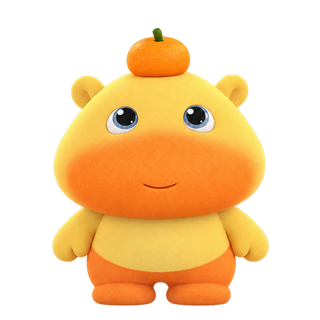
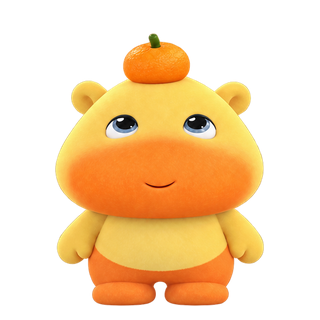
Refine Lulu loaf and looking-up animations and unify state menu

diff --git a/variants/desktop_pet_lulu/test_lulu.py b/variants/desktop_pet_lulu/test_lulu.py
@@ -276,6 +276,16 @@ class LuluTests(unittest.TestCase):
             for box in [(20, 110, 55, 310), (275, 110, 300, 310)]:
                 self.assertEqual(frame.crop(box).tobytes(), frames[0].crop(box).tobytes())
 
+    def test_looking_up_feet_stay_planted(self):
+        frames = [Image.open(p).convert('RGBA') for p in sorted(
+            (ROOT/'assets/blue_chibi/looking_up').glob('frame_*.png'))]
+        centers = []
+        for frame in frames:
+            box = frame.getchannel('A').crop((0, 285, 320, 307)).getbbox()
+            self.assertIsNotNone(box)
+            centers.append((box[0] + box[2]) / 2)
+        self.assertLessEqual(max(centers) - min(centers), 1)
+
     def test_typing_and_dragging_cancel_reference_actions(self):
         machine = self.pet.state_machine
         for state in REFERENCE_ACTIONS:
@@ -292,10 +302,11 @@ class LuluTests(unittest.TestCase):
                     machine.release_state(interrupt)
                     self.assertEqual(machine.current_state, PetState.IDLE)
 
-    def test_reference_menus_offer_and_trigger_all_six_actions(self):
+    def test_reference_actions_share_the_state_menu(self):
         def check_menu(parent):
-            menu = next(a.menu() for a in parent.actions() if a.text() == '参考图动作')
-            actions = menu.actions()
+            self.assertNotIn('参考图动作', {a.text() for a in parent.actions()})
+            menu = next(a.menu() for a in parent.actions() if a.text() == '切换状态')
+            actions = [a for a in menu.actions() if a.data() in REFERENCE_ACTIONS]
             self.assertEqual({a.data() for a in actions}, set(REFERENCE_ACTIONS))
             for action in actions:
                 action.trigger()

diff --git a/variants/desktop_pet_lulu/build_reference_actions.py b/variants/desktop_pet_lulu/build_reference_actions.py
@@ -17,6 +17,28 @@ from enhance_ui_assets import resize_square_frame
 ROOT = Path(__file__).resolve().parent
 
 
+def anchor_looking_up_feet(frames):
+    """Keep the planted lower body fixed while eyes, head and paws explore."""
+    centers = []
+    for frame in frames:
+        feet = frame.getchannel("A").crop((0, 285, 320, 307))
+        box = feet.getbbox()
+        if not box:
+            raise ValueError("Missing planted feet in looking-up frame")
+        centers.append((box[0] + box[2]) / 2)
+    target = median(centers)
+    result = []
+    for frame, center in zip(frames, centers):
+        dx = round(target - center)
+        left, _, right, _ = frame.getchannel("A").getbbox()
+        if left + dx <= 0 or right + dx >= frame.width:
+            raise ValueError("Foot alignment would crop the character")
+        aligned = Image.new("RGBA", frame.size, (0, 0, 0, 0))
+        aligned.alpha_composite(frame, (dx, 0))
+        result.append(aligned)
+    return result
+
+
 def register_pullup_bar(frames):
     """Reuse the generated bar layer so AI sheet registration cannot move it.
 
@@ -103,8 +125,10 @@ def build_action(state):
         # grounded while the character moves inside it as the elbows bend.
         frame.alpha_composite(sprite, ((320-sprite.width)//2, 306-sprite.height))
         frames.append(frame)
-    if state in {"shy", "laughing", "looking_up"}:
+    if state in {"shy", "laughing"}:
         frames = align_walking_heads(frames)
+    elif state == "looking_up":
+        frames = anchor_looking_up_feet(frames)
     elif state == "pullups":
         frames = register_pullup_bar(frames)
     low = ROOT / "assets" / "blue_chibi" / state

diff --git a/variants/desktop_pet_lulu/pet_window.py b/variants/desktop_pet_lulu/pet_window.py
@@ -308,7 +308,7 @@ class PetWindow(QWidget):
         state_menu.addAction(selfie_action)
         selfie_action.setVisible(SELFIE_ENABLED)
 
-        self._add_reference_action_menu(tray_menu)
+        self._add_reference_state_actions(state_menu)
 
         tray_menu.addSeparator()
 
@@ -320,15 +320,14 @@ class PetWindow(QWidget):
         self.tray_icon.setToolTip("噜噜 · DesktopPetLulu")
         self.tray_icon.show()
 
-    def _add_reference_action_menu(self, parent_menu):
-        menu = parent_menu.addMenu("参考图动作")
+    def _add_reference_state_actions(self, state_menu):
+        state_menu.addSeparator()
         for state, spec in REFERENCE_ACTIONS.items():
-            action = menu.addAction(spec["label"])
+            action = state_menu.addAction(spec["label"])
             action.setData(state)
             action.triggered.connect(
                 lambda checked=False, selected=state: self.state_machine.request_state(selected, True)
             )
-        return menu
 
     def _on_state_changed(self, state):
         """状态改变回调"""
@@ -953,7 +952,7 @@ class PetWindow(QWidget):
         state_menu.addAction(selfie_action)
         selfie_action.setVisible(SELFIE_ENABLED)
 
-        self._add_reference_action_menu(menu)
+        self._add_reference_state_actions(state_menu)
 
         menu.addSeparator()
 

diff --git a/variants/desktop_pet_lulu/config.py b/variants/desktop_pet_lulu/config.py
@@ -71,7 +71,7 @@ REFERENCE_ACTIONS = {
                         "frame_ms": 200, "sequence": (0, 1, 2, 3, 1, 0)},
     PetState.PULLUPS: {"label": "单杠锻炼", "reference": 3, "duration_ms": 4800,
                       "frame_ms": 300, "sequence": (0, 1, 2, 2, 3, 1, 0, 0)},
-    PetState.LOAF: {"label": "软团趴趴", "reference": 4, "duration_ms": 4800,
+    PetState.LOAF: {"label": "软软趴趴", "reference": 4, "duration_ms": 4800,
                    "frame_ms": 400, "sequence": (0, 0, 1, 2, 1, 3, 0, 0)},
     PetState.LOOKING_UP: {"label": "抬头张望", "reference": 5, "duration_ms": 4000,
                          "frame_ms": 400, "sequence": (0, 1, 1, 2, 2, 3, 0)},

diff --git a/variants/desktop_pet_lulu/art/reference_actions/REFINEMENT_1_1_1.md b/variants/desktop_pet_lulu/art/reference_actions/REFINEMENT_1_1_1.md
@@ -1,0 +1,25 @@
+# Lulu 1.1.1 action refinement prompts
+
+Tool: built-in image_gen. The edit targets were the 1.1.0 generated `loaf_sheet.png` and `looking_up_sheet.png`; the second reference for each edit was the already approved `lulu-approved.png`. The six user screenshots served as pose references in the conversation and are not stored in this repository.
+
+## Soft loaf, user's reference #4
+
+Use case: identity-preserve edit. Input image 1 is the CURRENT 2x2 transparent sprite sheet to REPLACE; input image 2 is the APPROVED identity reference of Lulu. Make a NEW 2x2 sprite sheet, four DIFFERENT animation drawings in reading order, genuinely transparent RGBA with clear padding inside every equal cell.
+
+Correct the expression and anatomy of the current belly-down pose. The uploaded user's reference photo #4 shows Lulu as a SOFT PLUSH LOAF / bean cushion resting flat on its tummy: a single broad low yellow oval body continues back behind the head, the large orange muzzle sits low and close to the imagined surface, the head has tiny rounded ears and a little tangerine perched slightly off-center; eyes are very expressive and gently glance upward/sideways. Short paws and feet are tucked mostly UNDER or BEHIND the plush body, barely peeking out. The current sheet looks like a frog with two large yellow front pads and a separate upright head; remove that feeling. No prominent paws under the chin, no distinct squat standing torso, no cartoon frog mouth. Keep the approved Lulu's exact warm yellow plush body, orange muzzle, two glossy blue gray eyes, orange lower body, tiny ears and one tangerine with green stem. Three-quarter view close to reference #4, facing slightly toward viewer's right, but include one whole complete body in each cell.
+
+Animate an actual soft settling pose, with planted underside fixed on the same baseline: frame 1 awake and gently resting, muzzle a little above paws; frame 2 relaxes chin and front of body lower against its tummy with one small paw drawn further under; frame 3 curious sideways eye glance with tiny head tilt and fruit gently leaning, visible body remains grounded; frame 4 brief adorable slow blink and hint of a smile, then able to loop to frame 1. These are separately drawn anatomical changes, never global squash/stretch of the whole bitmap. Identical camera, lighting, physical scale, same head size and character in every cell. Natural cute plush 3D, no glows, no floor, no shadows, no aura, no objects or text. True alpha zero around silhouettes, no white/brown/checkerboard backdrop. Do not crop ears, tangerine, tail/body or feet.
+
+## Looking up, user's reference #5
+
+Use case: identity-preserve edit. Input image 1 is the existing 2x2 LOOKING UP transparent animation sheet that feels stiff; input image 2 is the APPROVED Lulu identity reference. Recreate all FOUR frames as an expressive, charming 2x2 game sprite sheet on real transparent RGBA, with four separately drawn complete figures.
+
+The user's uploaded reference picture #5 is a close-up of an especially curious round yellow Lulu peeking UP through big glossy blue gray eyes below its small orange tangerine. Capture that tender, expectant, irresistibly cute upward look. Preserve Lulu's approved chubby yellow plush body, large broad orange muzzle, tiny rounded ears, orange lower body and tiny orange feet. Do not use a generic standing character with only pupils moved; add a gentle story told by real head, eye, ear and small paw articulation. Frame 1: Lulu notices something above, lifts chin and raises one little paw near chest, wide eyes looking up. Frame 2: head tilts a little to its left, pupils track higher to upper right, same paw touches the orange muzzle as if thinking, small shy smile. Frame 3: head leans slightly the other way, eyes grow sparkling and glance upper left, ears and fruit follow the subtle tilt while paw is near cheek. Frame 4: soft happy half-blink with tiny smile and paw settling back down, gaze still upward, ready to loop gently to frame 1. Cute without extreme rotation or exaggerated grin.
+
+One full body per equal cell, generous transparent padding all around. Same physical scale, same planted feet and body center in all frames; head moves naturally on the neck while lower body stays grounded. No whole-image jitter, scaling, squashing or flashes. Character identity and face shape consistent between frames, eyes remain visible, no extra hands, paws, fruit, eyebrows or props. Soft polished 3D plush lighting ON the character only, no glow/aura, no shadow, no floor, no opaque/checkerboard background, no numbers/text/grid lines.
+
+## Soft loaf boundary correction
+
++Precise production sprite-sheet LAYOUT CORRECTION ONLY. Edit input image 1, the newly refined 2x2 transparent Lulu plush-loaf animation sheet. Input image 2 is the approved Lulu identity reference. Preserve the four attractive new soft bean-like belly-down poses, their eye directions, fruit, small paws, face, material and lighting exactly as shown in image 1.
+
+The current sheet has a technical defect: the broad bodies touch and cross the vertical middle boundary between left and right cells. Redraw the exact same four poses at about 75% of their CURRENT width and height, centered separately within the four equal SQUARE cells. Give every pose AT LEAST 10% fully transparent space from ALL FOUR edges of ITS OWN cell, including tail, back, orange muzzle, paws, ears, fruit and feet. No opaque pixel of one figure may touch a grid boundary or another figure; no overlap across cells. The feet/belly baseline is at the same y-position in every cell. The figures should still be large enough to read clearly as desktop pets. Do NOT turn the low soft bean anatomy back into a squat frog. Keep first pose awake with front and back of body visible, second lowering chin, third glancing sideways with a small head tilt, fourth blinking. One whole complete figure per cell, four cells in 2 columns x 2 rows. Transparent RGBA background with alpha zero throughout empty areas, no floor, no glow, no shadow, no text, no border/grid lines.

diff --git a/variants/desktop_pet_lulu/README.md b/variants/desktop_pet_lulu/README.md
@@ -1,4 +1,4 @@
-# 噜噜桌宠 · DesktopPetLulu 1.1.0
+# 噜噜桌宠 · DesktopPetLulu 1.1.1
 
 基于本仓库原有 DesktopPet 框架的独立角色，保留圆润黄色身体、橙色嘴部和头顶小橘子。原男生版和女生版不受影响。
 
@@ -9,6 +9,12 @@
 - 分享给朋友：macOS 发送 DMG；Windows 发送 ZIP。无需安装 Python。
 - 当前使用本地临时签名，未进行 Apple 公证或 Windows 商业签名。系统首次运行可能显示来源提示。
 
+## 1.1.1 动作修订
+
+- 新动作直接列在右键及菜单栏/托盘的“切换状态”里，不再出现额外的“参考图动作”子菜单。
+- “软软趴趴”重新绘制为参考图里的低矮软团：身体向后连成一体，小手小脚藏在身侧，表情与趴伏过程更自然。
+- “抬头张望”重新绘制眼神、歪头与小手变化；双脚位置保持稳定。
+
 ## 1.1.0 参考图动作扩展
 
 根据用户上传的六张图片，新增六组独立动画，每组四张分别绘制的姿势：
@@ -18,13 +24,13 @@
 | 1 | 搓手卖萌 | 双手合拢、叠手、搓手与闭眼 |
 | 2 | 张嘴大笑 | 嘴巴张合、露出一颗小门牙、张臂大笑 |
 | 3 | 单杠锻炼 | 抓杆悬垂、弯肘上拉、收腿、放下 |
-| 4 | 软团趴趴 | 趴下收手、低头眨眼、抬起下巴 |
-| 5 | 抬头张望 | 抬眼、左右抬头观察、回正 |
+| 4 | 软软趴趴 | 软团趴伏、低头、侧眼张望、眨眼 |
+| 5 | 抬头张望 | 抬眼、歪头、轻碰脸颊、害羞眨眼 |
 | 6 | 歪头吐舌 | 歪头、伸舌、卷舌闭眼、收回 |
 
-闲置时会随机出现；右键噜噜或点击菜单栏/托盘图标，选择“参考图动作”即可点播。动作播放完毕回到待机，开始打字或拖拽会立即打断。原有走路、睡觉、开心等动作继续保留。
+闲置时会随机出现；右键噜噜或点击菜单栏/托盘图标，进入“切换状态”即可点播。动作播放完毕回到待机，开始打字或拖拽会立即打断。原有走路、睡觉、开心等动作继续保留。
 
-公开源素材为生成的 `art/reference_actions/*_sheet.png`，提示词保存在同目录 `PROMPTS.json`。用户上传的原图不包含在仓库或安装包内。
+公开源素材为生成的 `art/reference_actions/*_sheet.png`，提示词保存在同目录的 `PROMPTS.json` 和 `REFINEMENT_1_1_1.md`。用户上传的原图不包含在仓库或安装包内。
 
 ## 1.0.1 走路修复
 

diff --git a/variants/desktop_pet_lulu/art/APPROVALS.md b/variants/desktop_pet_lulu/art/APPROVALS.md
@@ -9,3 +9,5 @@
 - 2026-09-21 walking fix requested by user: preserve approved pose sheet and all limb shapes; register output frames horizontally to the head, without per-frame scale changes. Runtime stops at boundaries instead of bouncing.
 
 - 2026-09-25: user explicitly requested additional actions derived from all six uploaded reference pictures, beyond the original repository states. Added clasping/rubbing hands, laughing, pullups, belly-down loaf, upward gaze and tongue-out animations using the previously approved character. No replacement character or walking cycle was generated.
+
+- User follow-up: place all six new actions directly under the existing state menu and refine the loaf/upward-gaze artwork. Both generated sheets were redrawn from the approved Lulu identity; other actions and the approved walking cycle were retained.
